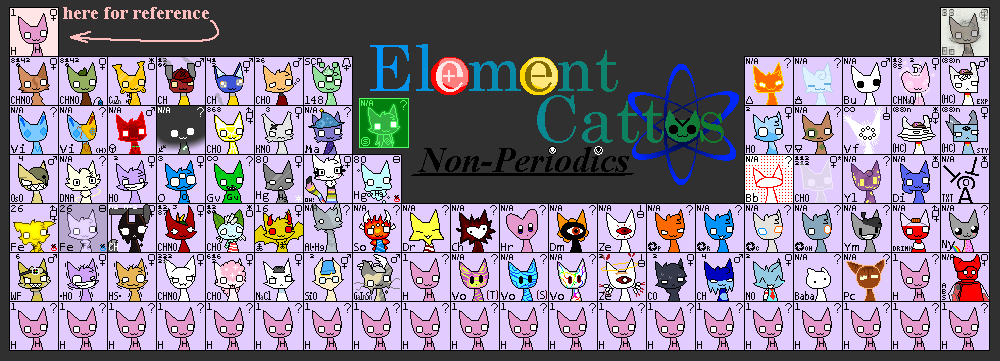
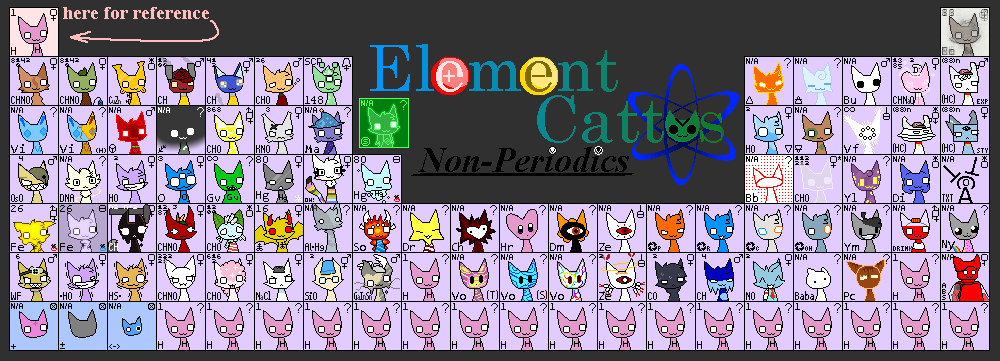
Add proton, neutron, and meson

Changed region(s): [[0.0, 0.8227, 0.155, 0.9751]]

diff --git a/editor/editor.py b/editor/editor.py
@@ -358,11 +358,11 @@ class Editor:
         changed, new_name = imgui.input_text(f"Name##{self.active_element.uuid}", self.active_element.name)
         if changed: self.active_element.name = new_name
         old_symbol = self.active_element.symbol
-        for a, b in zip("₀₁₂₃₄₅₆₇₈₉•×", "0123456789+@"):
+        for a, b in zip("₀₁₂₃₄₅₆₇₈₉•×", "0123456789.@"):
             old_symbol = old_symbol.replace(a, b)
         changed, new_symbol = imgui.input_text(f"Symbol##{self.active_element.uuid}", old_symbol)
         if changed: 
-            for a, b in zip("₀₁₂₃₄₅₆₇₈₉•×", "0123456789+@"):
+            for a, b in zip("₀₁₂₃₄₅₆₇₈₉•×", "0123456789.@"):
                 new_symbol = new_symbol.replace(b, a)
             self.active_element.symbol = new_symbol
         changed, new_pronouns = imgui.input_text(f"Pronouns##{self.active_element.uuid}", self.active_element.pronouns)

diff --git a/main.py b/main.py
@@ -207,7 +207,7 @@ class Bot(commands.Bot):
                 self.elements_by_atomic_number[element.atomic_number] = element
             if element.symbol != "???":
                 raw_symbol = element.symbol.lower()
-                for a, b in zip([*"₀₁₂₃₄₅₆₇₈₉", "ⓢ", "**n**", "×"], [*"0123456789", "(s)", "n", "*"]):
+                for a, b in zip([*"₀₁₂₃₄₅₆₇₈₉", "ⓢ", "**n**", "×", "±", "↔"], [*"0123456789", "(s)", "n", "*", "+/-", "<->"]):
                     raw_symbol = raw_symbol.replace(a, b)
                 self.elements_by_symbol[raw_symbol] = element
         print("Generating Omnium...")        

diff --git a/config.py b/config.py
@@ -1,5 +1,5 @@
 post_id = 756531227794767872
-prefixes = ["."]
+prefixes = ["="]
 description = "beep :3"
 
 # The width and height of each element
